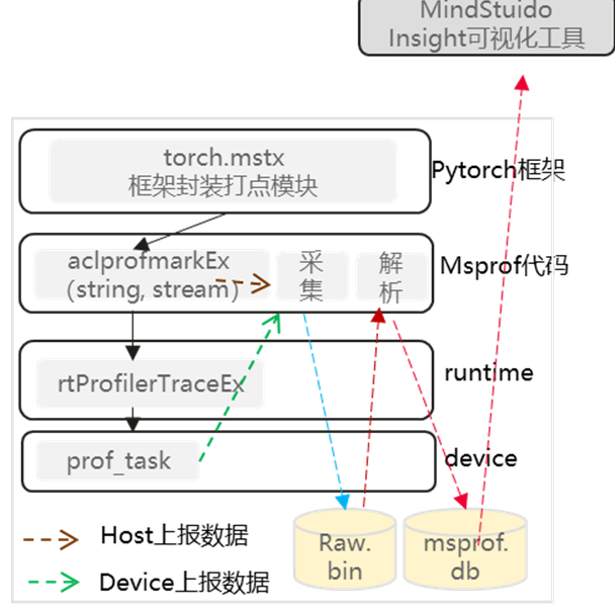
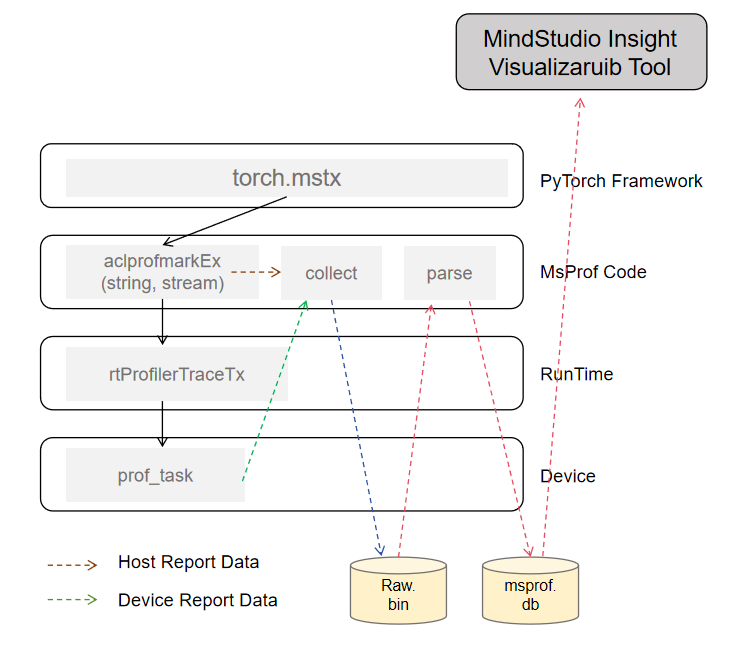
docs:文档优化
# message auto-generated for no-merge-commit merge:
!138 merge 26.0.0 into 26.0.0

docs:文档优化

Created-by: cai-weiwei1989
Commit-by: cai-weiwei1989
Merged-by: ascend-robot
Description: # PR 合入模板

**注：经过自检不涉及的可标注“不涉及”或直接打勾，特殊情况请文字备注。不符合规范的 PR 不允许合入，请（后备）commit 注意。**

----

## 1. 修改描述

- **修改原因：**  修改issue：https://gitcode.com/Ascend/mspti/issues/33
- **修改内容：**  
1、26.0.0分支中的英文文档中的中文链接改为英文链接
2、26.0.0分支中的中文图片改为英文图片
----

## 2. 功能验证

- [ ] **功能自验**
- [ ] **本地自验用例截图**
- [ ] **冒烟是否通过** （填入群链接的自验证报告中，如未通过，请说明原因：____________________ ，功能代码请主动申报添加冒烟）

----

## 3. 分支合并要求

- [ ] **代码合并**（请确保将 master 分支的最新代码同步合并至 poc 分支及 pre-research 分支，同时保证 poc 分支的代码也已正确合并到 pre-research 分支。）

----

## 4. 代码检视

- **要求：**
  - 合入代码超过 200 行，需三人以上会议检视。
  - 检视密度≥1个/100行。
  - 检视缺陷密度未达要求需提供说明。
  - 大于 1000 行代码原则上不允许合入，需进行备案。
- [ ] **是否经过代码检视**
- [ ] **是否具备 UT 测试用例看护** （如不符合，请说明原因：____________________）

- **检视意见数：____ 条** （请填写本次检视的意见总数，用于commit合入前审视）

----

## 5. 安全自检

### Python、C++

- [ ] **对外接口新增/删除/变更后，资料要同步新增/删除/变更，新增接口入参校验参考外部输入表格**
- [ ] **不允许私有的文件操作，需要使用公共模块的安全函数**
- [ ] **任务结束后需要删除临时文件，同时需要考虑任务失败后，临时文件没有残留**
- [ ] **数组访问需要校验越界场景，对除法需要做除零校验**
- [ ] **需要对递归方法做递归深度校验，正则表达式必须做 ReDoS 校验**
- [ ] **需要充分进行接口输入和返回值异常情况的校验**
- [ ] **日志打印不要出现拼写或语法错误，不要暴露代码细节和敏感信息**

### C++

- [ ] **指针使用前需要判空**
- [ ] **数值计算校验溢出和反转**
- [ ] **不可存在内存泄漏（异常场景需要释放内存）**
- [ ] **类型转换不能出现数据截断**
- [ ] **拷贝字符串时，目的缓冲区至少比源缓冲区大 1**
- [ ] **拷贝内存时，目的缓冲区不小于源缓冲区**
- [ ] **内存释放后指针赋值为 nullptr**

----

## 6. 变更知会

- [ ] **资料修改**
[…]

Changed region(s): [[0.0, 0.0, 1.0, 1.0]]

diff --git a/README_EN.md b/README_EN.md
@@ -59,7 +59,7 @@ msPTI provides the following capabilities:
 msPTI depends on a matching version of CANN. Before installing msPTI, set up the environment:
 
 - Hardware environment: See the [Ascend Product Overview](https://www.hiascend.com/document/detail/en/AscendFAQ/ProduTech/productform/hardwaredesc_0001.html).
-- Software environment: Refer to the [CANN Software Installation Guide](https://www.hiascend.com/document/detail/en/canncommercial/83RC1/softwareinst/instg/instg_quick.html?Mode=PmIns&InstallType=local&OS=openEuler&Software=cannToolKit) to install the mapped CANN Toolkit and the ops package.
+- Software environment: Refer to the [CANN Installation](https://www.hiascend.com/en/cann/download) to install the mapped CANN Toolkit and the ops package.
 
 After setting up the environment, you can install msPTI in either of the following two ways:
 

diff --git a/docs/en/release_notes.md b/docs/en/release_notes.md
@@ -2,7 +2,7 @@
 
 | Release | Date | Release Tag | Compatibility |
 | -------------- | ---------- | ----------------------------- |----------------------------------------------------------------------|
-| 26.0.0-alpha.1 | 2026/02/06 | tag_MindStudio_26.0.0-alpha.1 | Later than CANN 8.5.0. Refer to the [CANN Installation Guide](https://www.hiascend.com/cann) to obtain the CANN installation package. |
+| 26.0.0-alpha.1 | 2026/02/06 | tag_MindStudio_26.0.0-alpha.1 | Later than CANN 8.5.0. Refer to the [CANN Installation Guide](https://www.hiascend.com/en/cann/download) to obtain the CANN installation package. |
 
 ## Installation Package MD5 Checksum
 